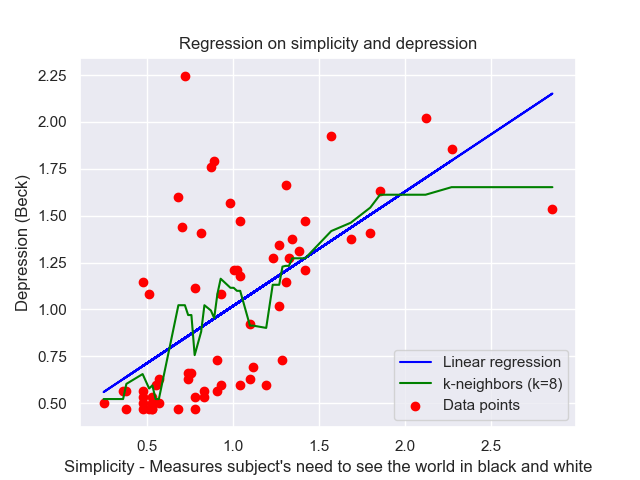
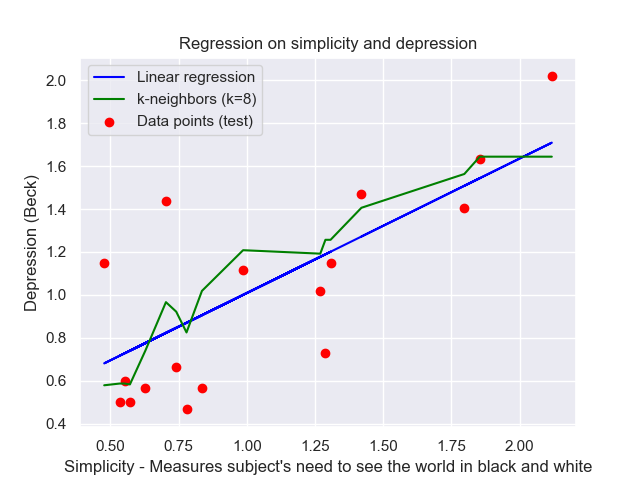
Before I "rör om i grytan"

diff --git a/BigData/project1.py b/BigData/project1.py
@@ -2,7 +2,7 @@ import numpy as np
 import pandas as pd
 import sklearn.linear_model as kit
 import sklearn.neighbors as kNN
-from sklearn.model_selection import train_test_split as tts
+from sklearn.model_selection import KFold
 import sklearn.model_selection as mod
 import matplotlib.pyplot as plt
 import seaborn as sns
@@ -11,38 +11,48 @@ import seaborn as sns
 pathData = "/Users/adamwirehed/Documents/GitHub/Rdatasets/csv"
 
 
-## Depression dataset
+## Depression dataset split
 dfDep = pd.read_csv(pathData + "/carData/Ginzberg.csv")
-dfDepTrain, dfDepTest = tts(dfDep[['simplicity', 'depression']], test_size=0.2)
-xDep = dfDepTrain['simplicity'].values
-xDep = xDep.reshape(len(dfDepTrain), 1)
-yDep = dfDepTrain['depression'].values
-yDep = yDep.reshape(len(dfDepTrain), 1)
+n_splits = 5
+kf = KFold(n_splits=n_splits, shuffle=True)
+ix_train, ix_test = next(kf.split(dfDep), None)
+dfTrain = dfDep.iloc[ix_train]
+dfTest = dfDep.iloc[ix_test]
+xTrain = dfTrain['simplicity'].values
+xTrain = xTrain.reshape(len(dfTrain), 1)
+yTrain = dfTrain['depression'].values
+yTrain = yTrain.reshape(len(dfTrain), 1)
+xTest = (dfTest['simplicity'].values).reshape(len(dfTest), 1)
+yTest = (dfTest['depression'].values).reshape(len(dfTest), 1)
 
 # Linear regression
 lin_regDep = kit.LinearRegression()
-lin_regDep.fit(xDep, yDep)
+lin_regDep.fit(xTrain, yTrain)
 lin_test = kit.LinearRegression()
 
-#k-neighbors
+# k-neighbors
 k = 8
 kNN_regDep = kNN.KNeighborsRegressor(n_neighbors=k)
-kNN_regDep.fit(xDep, yDep)
+kNN_regDep.fit(xTrain, yTrain)
 kNN_test = kNN.KNeighborsRegressor(n_neighbors=k)
 
-xTest = (dfDepTest['simplicity'].values).reshape(len(dfDepTest), 1)
-yTest = (dfDepTest['depression'].values).reshape(len(dfDepTest), 1)
+# Cross-validation
+TE_Dep_lin = sum(yTest - lin_regDep.predict(xTest))
+TE_Dep_kNN = sum(yTest - kNN_regDep.predict(xTest))
 
-cv = mod.ShuffleSplit(n_splits=5, test_size=0.2, random_state=0)
-lin_cval = mod.cross_validate(lin_test, xDep, yDep, cv=cv)
-kNN_cval = mod.cross_validate(kNN_test, xDep, yDep, cv=cv)
-print(lin_cval['test_score'].mean())
-print(kNN_cval['test_score'].mean())
+print("Test error linear: {}".format(TE_Dep_lin))
+print("Test error kNN: {}".format(TE_Dep_kNN))
+
+""" cv = mod.ShuffleSplit(n_splits=1, test_size=0.2)
+lin_reg = mod.cross_validate(lin_test, xDep, yDep, cv=cv)
+kNN_reg = mod.cross_validate(kNN_test, xDep, yDep, cv=cv)
+print(lin_cval['test_score'])
+print(kNN_cval['test_score']) """
 
 sns.set()
-plt.scatter(xDep, yDep, color='red', label='Data points')
-plt.plot(xDep, lin_regDep.predict(xDep), color='blue', label='Linear regression')
-plt.plot(sorted(xDep), kNN_regDep.predict(sorted(xDep)), color='green', label='k-neighbors (k={})'.format(k))
+plt.scatter(xTrain, yTrain, color='red', label='Data points (training)')
+plt.plot(xTrain, lin_regDep.predict(xTrain), color='blue', label='Linear regression')
+plt.plot(sorted(xTrain), kNN_regDep.predict(sorted(xTrain)), color='green', label='k-neighbors (k={})'.format(k))
 plt.xlabel("Simplicity - Measures subject's need to see the world in black and white")
 plt.ylabel("Depression (Beck)")
 plt.title("Regression on simplicity and depression")
@@ -50,4 +60,14 @@ plt.legend()
 plt.savefig("Figures/depression.png")
 plt.show()
 
+
+plt.scatter(xTest, yTest, color='red', label='Data points (test)')
+plt.plot(xTest, lin_regDep.predict(xTest), color='blue', label='Linear regression')
+plt.plot(sorted(xTest), kNN_regDep.predict(sorted(xTest)), color='green', label='k-neighbors (k={})'.format(k))
+plt.xlabel("Simplicity - Measures subject's need to see the world in black and white")
+plt.ylabel("Depression (Beck)")
+plt.title("Regression on simplicity and depression")
+plt.legend()
+plt.savefig("Figures/depression.png")
+plt.show()
 
